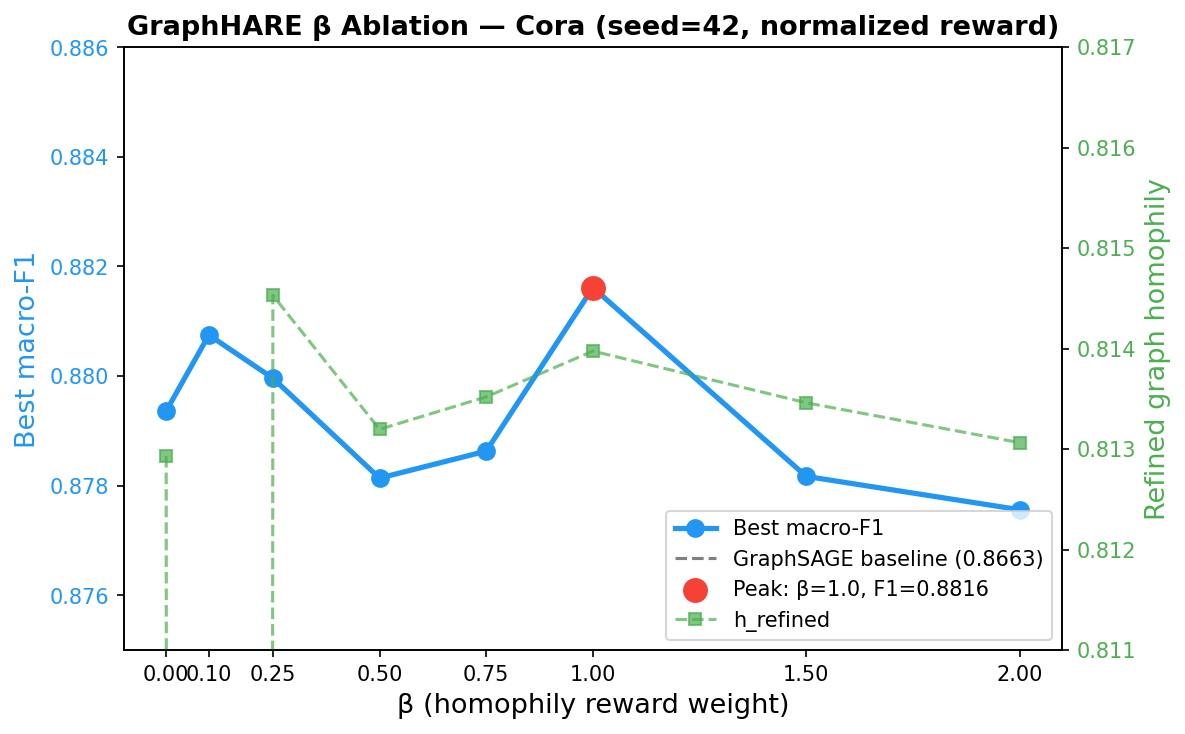
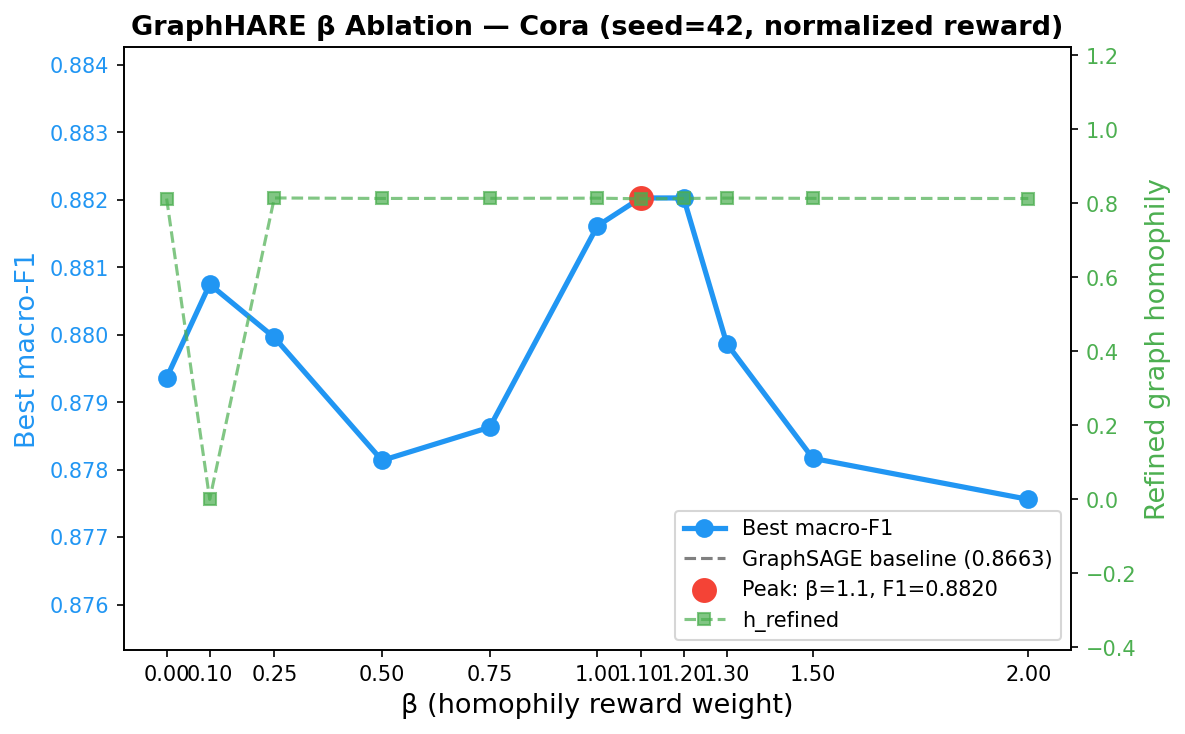
fix plot: auto-scale axes per dataset, read baseline from results.json

diff --git a/src/06_plot_beta_curve.py b/src/06_plot_beta_curve.py
@@ -37,20 +37,21 @@ for path in sorted(runs_dir.rglob("results.json")):
         "beta": float(d["beta"]),
         "best_macro_f1": float(d["best_macro_f1"]),
         "homophily_refined": float(d.get("homophily_refined", 0)),
+        "baseline_macro_f1": float(d.get("baseline_macro_f1", 0.8663)),
     })
 
 rows.sort(key=lambda r: r["beta"])
 betas   = [r["beta"] for r in rows]
 f1s     = [r["best_macro_f1"] for r in rows]
 homs    = [r["homophily_refined"] for r in rows]
-baseline = 0.8663
+baseline = rows[0].get("baseline_macro_f1", 0.8663) if rows else 0.8663
 
 # ---- plot ----
 fig, ax1 = plt.subplots(figsize=(8, 5))
 
 # macro-F1 curve
 ax1.plot(betas, f1s, "o-", color="#2196F3", linewidth=2.5, markersize=8, label="Best macro-F1")
-ax1.axhline(baseline, color="gray", linestyle="--", linewidth=1.5, label=f"GraphSAGE baseline ({baseline})")
+ax1.axhline(baseline, color="gray", linestyle="--", linewidth=1.5, label=f"GraphSAGE baseline ({baseline:.4f})")
 
 # mark peak
 peak_idx = f1s.index(max(f1s))
@@ -61,14 +62,16 @@ ax1.set_xlabel("β (homophily reward weight)", fontsize=13)
 ax1.set_ylabel("Best macro-F1", fontsize=13, color="#2196F3")
 ax1.tick_params(axis="y", labelcolor="#2196F3")
 ax1.set_xticks(betas)
-ax1.set_ylim(0.875, 0.886)
+f1_range = max(f1s) - min(f1s)
+ax1.set_ylim(min(f1s) - max(f1_range * 0.5, 0.002), max(f1s) + max(f1_range * 0.5, 0.002))
 
 # homophily on second axis
 ax2 = ax1.twinx()
 ax2.plot(betas, homs, "s--", color="#4CAF50", linewidth=1.5, markersize=6, alpha=0.7, label="h_refined")
 ax2.set_ylabel("Refined graph homophily", fontsize=13, color="#4CAF50")
 ax2.tick_params(axis="y", labelcolor="#4CAF50")
-ax2.set_ylim(0.811, 0.817)
+hom_range = max(homs) - min(homs)
+ax2.set_ylim(min(homs) - max(hom_range * 0.5, 0.001), max(homs) + max(hom_range * 0.5, 0.001))
 
 # legend
 lines1, labels1 = ax1.get_legend_handles_labels()